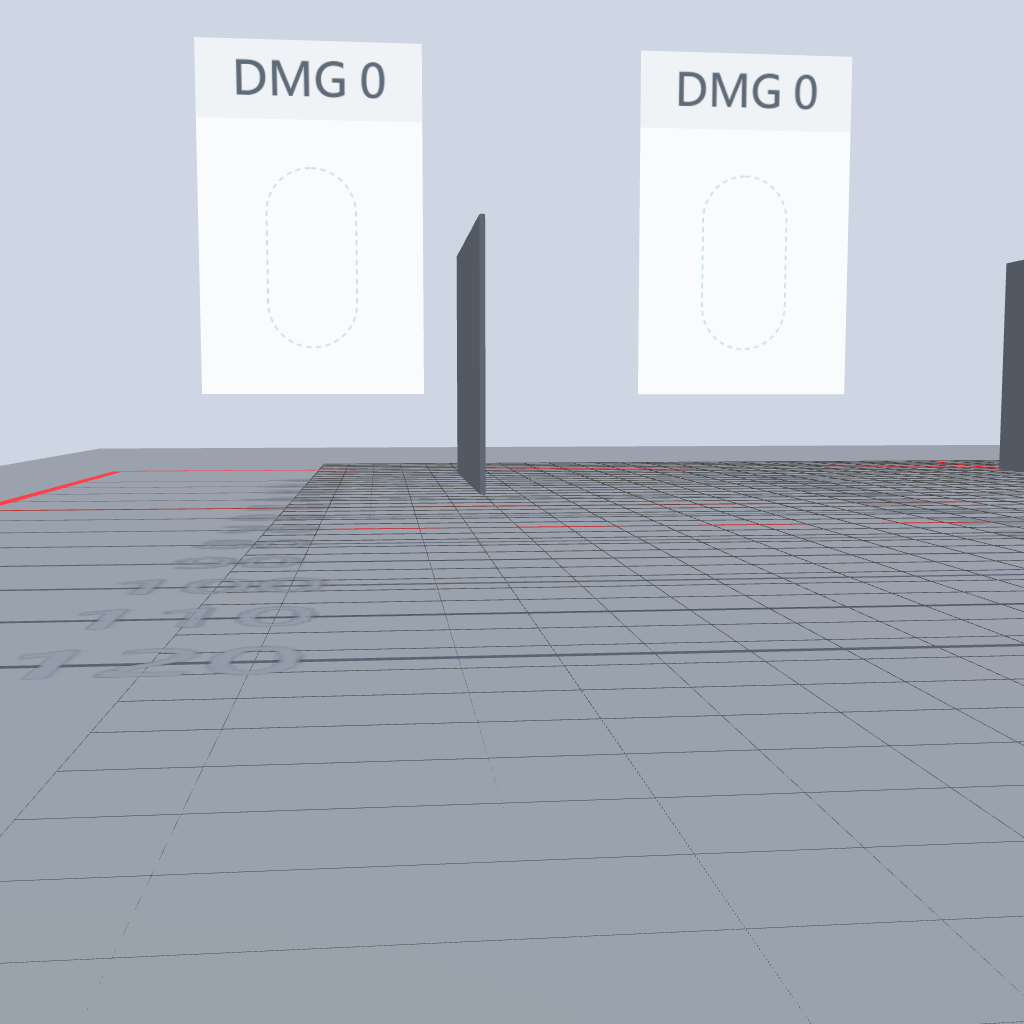
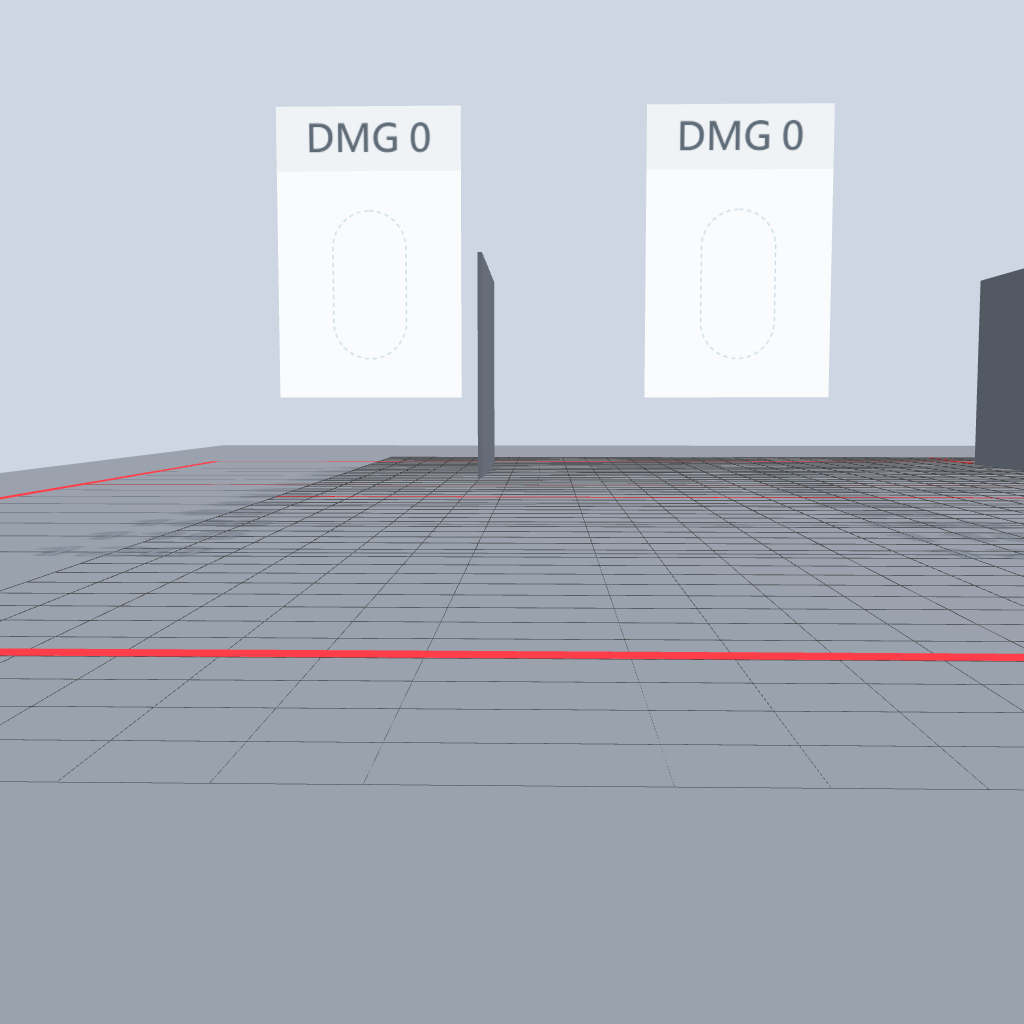
Map cards: Shooting Range's new picture, its thumb at the top (b1105ca)
User 2026-11-07: "Shooting range again. Crop the upper part for thumbnail
this time."

- client/public/maps/range.png replaced by the user's new 1024 x 1024
  picture.
- client/src/main.js, MAP_DATA range `thumb: 'top'`: the picker's wide
  thumb shows the upper part, the targets and their DMG 0 boards.
- README: the b1105ca entry.
- Build tag b1105ca 11-07.

Checks: the map picker loads the new picture at 1024 px with its thumb at
the top (object-position 50% 0%) on the Concept Maps tab; no page errors.

Claude-Session: https://claude.ai/code/session_01WRmaW8Rcy6Uy3N3ztRYSCo

diff --git a/client/src/main.js b/client/src/main.js
@@ -810,7 +810,7 @@ const MAP_DATA = {
   district: { name: 'District', cardNote: 'Unit has more stamina in this map.', noRandom: true },   // (noRandom, user 2026-10-30: "too much of a special map" — a manual pick only, offline and online; the host's Random card rolls the scene maps without it)   // (cardNote: the map's own note on its info card, as a unit's — District's boost scale, user 2026-10-29)   // Cut from the Jujutsu Shenanigans map glTF (2026-10-29, README: Maps): a walled city block — streets on a grid, the square at the middle, buildings of two to fifteen storeys, a plaza of dead trees; the posters and the doll the model carried left out (user 2026-10-29).
   backrooms: { name: 'Backrooms', thumb: 'top' },   // Cut from the Original Backrooms glTF (2026-10-19, README: Maps): the whole hall, indoors; the usual HUD and rules.
   backrooms_anomaly: { name: 'Backrooms (Anomaly)', shortName: 'Backrooms', crayon: 'Anomaly!', noRandom: true, thumb: 'top' },   // (shortName / crayon: the memos read Backrooms with a red crayon Anomaly!, b1105af)   // Cut from the Original Backrooms glTF (2026-10-19, README: Maps): the whole hall, indoors, under the anomaly rules. No Random card rolls it.
-  range: { name: 'Shooting Range', noRandom: true, offlineOnly: true }   // offline-only practice range (hidden online: `offlineOnly`); listed last; no Random card rolls it
+  range: { name: 'Shooting Range', noRandom: true, offlineOnly: true, thumb: 'top' }   // offline-only practice range (hidden online: `offlineOnly`); listed last; no Random card rolls it
 };
 
 const state = {
@@ -7106,7 +7106,7 @@ const OWN_SHOT_SAME_SHOT_MS = 1000;       // older server without the shot count
 // Build tag, printed in the own-shot console tally so a stale deploy or
 // cache can be told from a live one (it was shown in the tab title for a
 // day; the owner had it taken off the tab, 2026-10-15).
-const CLIENT_BUILD_TAG = 'b1105bz 11-07';
+const CLIENT_BUILD_TAG = 'b1105ca 11-07';
 
 // Called after every prediction tick — the forward tick in runPredictionTick
 // and each replayed tick in applySnapshotToPrediction: every own single

diff --git a/README.md b/README.md
@@ -159,6 +159,7 @@ Both offline and online pickers carry them:
 
 **The in-game Guide rewritten in plain words** (b1105bs, 2026-11-07, PT first and then 9.5; user: "Time to upgrade the in game Guide. Some yellow text needs their text color changed. Try to cover the info needed to play the game in easy plain words." and "implement in 9.5") — `showGuidePopup` now runs: how to win (HP, Sudden Death's 1 HP, Duel and Trio with the 3 s spawn protection), the main menu row by row, the controls (the phone's stick and buttons; on a PC W A S D or the arrows, J fire, K or Shift sprint, L or Q dodge, Space jump, U or E target, V Shooter or Command, I free camera), fighting (the auto lock and the red lock's homing, the spread that grows with held fire, the reload when empty, the hit slow, stamina, the sprint lock, the dodge's protection, cover), the six weapon types, and Command mode in shorter words. The yellow text, the double-tap sprint line written in #ffe14d on the white card, and the dodge line read in ink over a yellow highlighter stroke (style.css `.guide-hl`).
 
+**Shooting Range's card again, its thumb at the top** (b1105ca, 2026-11-07, PT and 9.5; user: "Shooting range again. Crop the upper part for thumbnail this time.") — client/public/maps/range.png replaced by the user's new 1024 x 1024 picture, the two DMG 0 targets and the walls from farther back; MAP_DATA range `thumb: 'top'`, so the picker's wide thumb shows the targets and their DMG 0 boards.
 **Five more map cards, new pictures** (b1105bz, 2026-11-07, PT and 9.5; user: the pictures in the order "Lobby/Scrapyard/Factory/Street/Plain Field", thumbs in the middle, and "No" to moving Warehouse's, Spacecraft's and the Backrooms' thumbs) — client/public/maps lobby.png, factory2.png (Scrapyard), factory.png, arena2.png (Streets) and arena1.png (Plain Field) replaced by the user's 1024 x 1024 pictures: the Lobby's hall with its pillars and showcases, the Scrapyard's yard from above, the Factory's floor under its beams and pipes, the Streets' crossing from above, the Plain Field's grid at night (sent as WebP, saved as PNG). None of the five sets `thumb`, so the picker's thumbs show the middle; Warehouse, Spacecraft and both Backrooms keep theirs.
 **Five map cards, new pictures** (b1105by, 2026-11-07, PT and 9.5; user: "update the map info card image", the pictures in the order "Shooting Range/Hospital/Airport/Flashpoint/Station", and "Every map images are to be cropped in the middle for thumbnails") — client/public/maps range.png, hospital.png, airport.png, flashpoint.png and station.png replaced by the user's 1024 x 1024 pictures: the range's two DMG 0 targets from the line, Hospital's corridor toward the CLOSED door, Airport's check-in hall from above, Flashpoint's crates and low walls under the beams, Station's platforms and trains. MAP_DATA hospital loses `thumb: 'top'`, so the picker's wide thumb shows the middle of all five, as it already did for the other four.
 **The lobby's red line is dashed** (b1105bx, 2026-11-07, PT and 9.5; user: "change the red line style from current \"G\" to \"E\". Apply to PT and 9.5.") — `lobbyCrayonLine` draws the design canvas's round 10b style E in place of G: an even dashed line, 24 px dashes 9 px apart on the 388 px box along the same slow wobble, each dash a 3.9 px crayon stroke (within 5% thicker or thinner and 0.2 px up or down, from a seeded draw) whose ends thin over its first and last 28%, the canvas's generator (seps2.py `dashes_e`) with a seeded draw of JS's own; the same red, the same #crayon-line wax, the same two places, seeds and tilts. The SVG stretches to the column as before, so the dashes and the gaps stretch with it (22 and 8.3 px in the 358 px column of a 390 px portrait phone; the landscape phone's lobby is zoomed whole, the lines with it).
